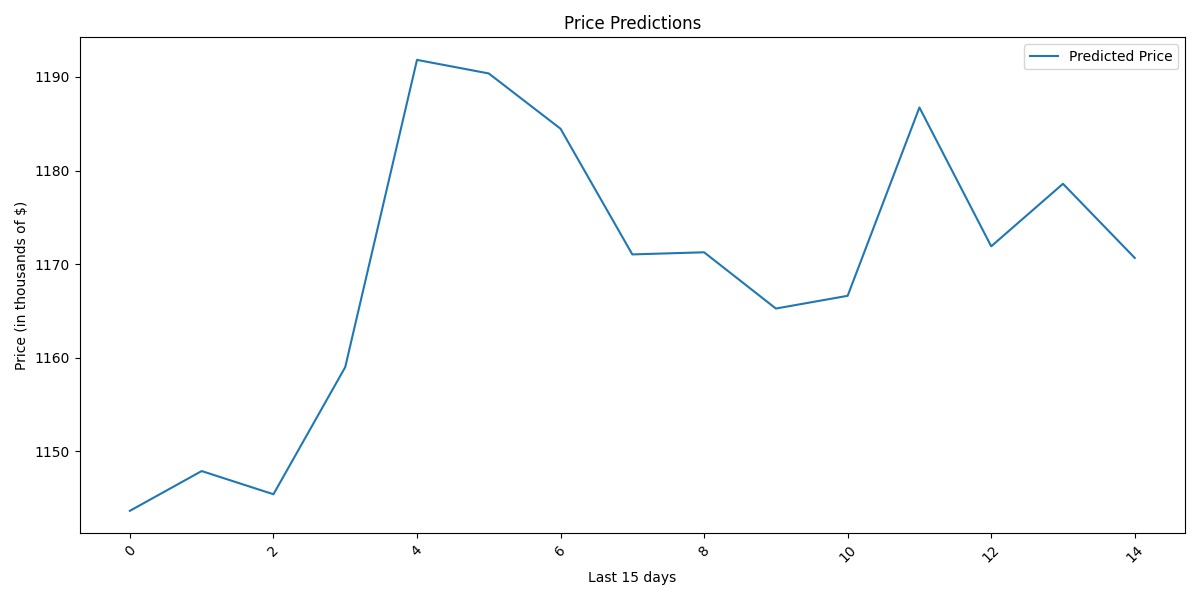
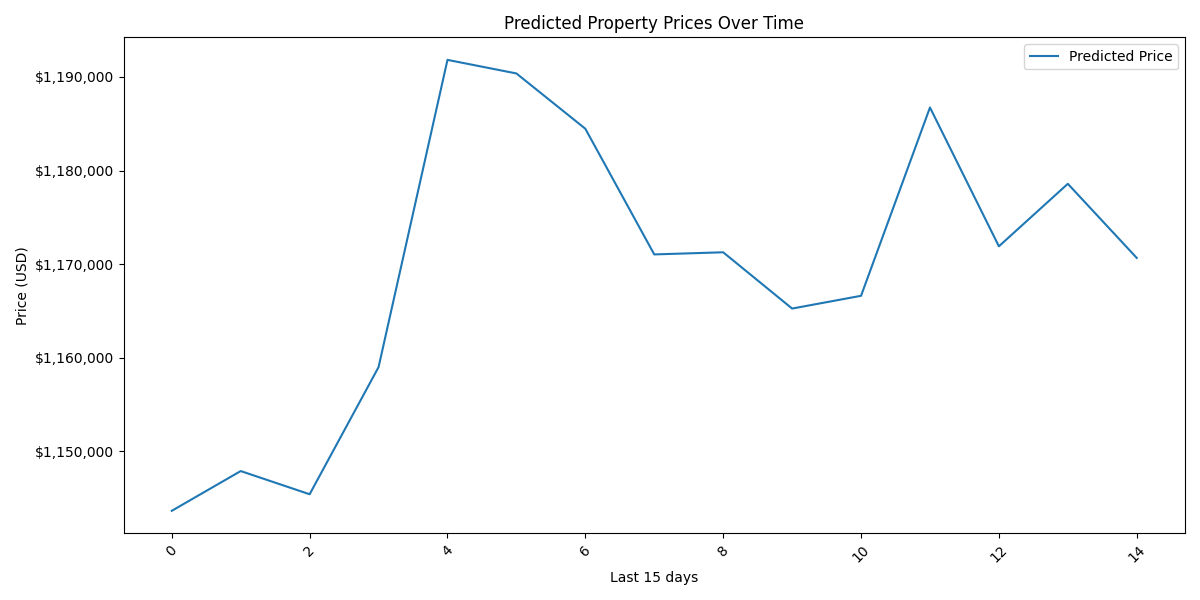
1

diff --git a/code/machine_learning/n_beats_day 2.py b/code/machine_learning/n_beats_day 2.py
@@ -82,14 +82,14 @@ model = NBeatsNetWithDropout(
 
 model.load_state_dict(torch.load('best_nbeats_model_by_day.pth'))
 model.eval()
-import matplotlib.ticker as mticker
+import matplotlib.ticker as ticker
 def plot_predictions(results, days, file_path):
     plt.figure(figsize=(12, 6))
     plt.plot(results['Predicted Price'], label='Predicted Price')
-    plt.title('Price Predictions')
-    plt.xlabel(f'Last {days} days')
-    plt.ylabel('Price (in thousands of $)')
-    plt.gca().yaxis.set_major_formatter(mticker.FuncFormatter(lambda x, _: f'{x/1000:.0f}'))
+    plt.title('Predicted Property Prices Over Time')
+    plt.xlabel('Year-Month-Day')
+    plt.ylabel('Price (USD)')
+    plt.gca().yaxis.set_major_formatter(ticker.FuncFormatter(lambda x, pos: f'${int(x):,}'))
 
 
     min_price = results['Predicted Price'].min()
@@ -137,9 +137,6 @@ def get_prediction(start_date, range_dates=15, bedrooms=2, bathrooms=2, property
     # Get the prediction
     with torch.no_grad():
         _, forecast = model(model_input)
-    
-    # Convert the forecast back to the original scale
-    print(forecast)
     
     # Create a DataFrame with both forecasts
     forecast_dates = pd.date_range(start=start_date, periods=30)
